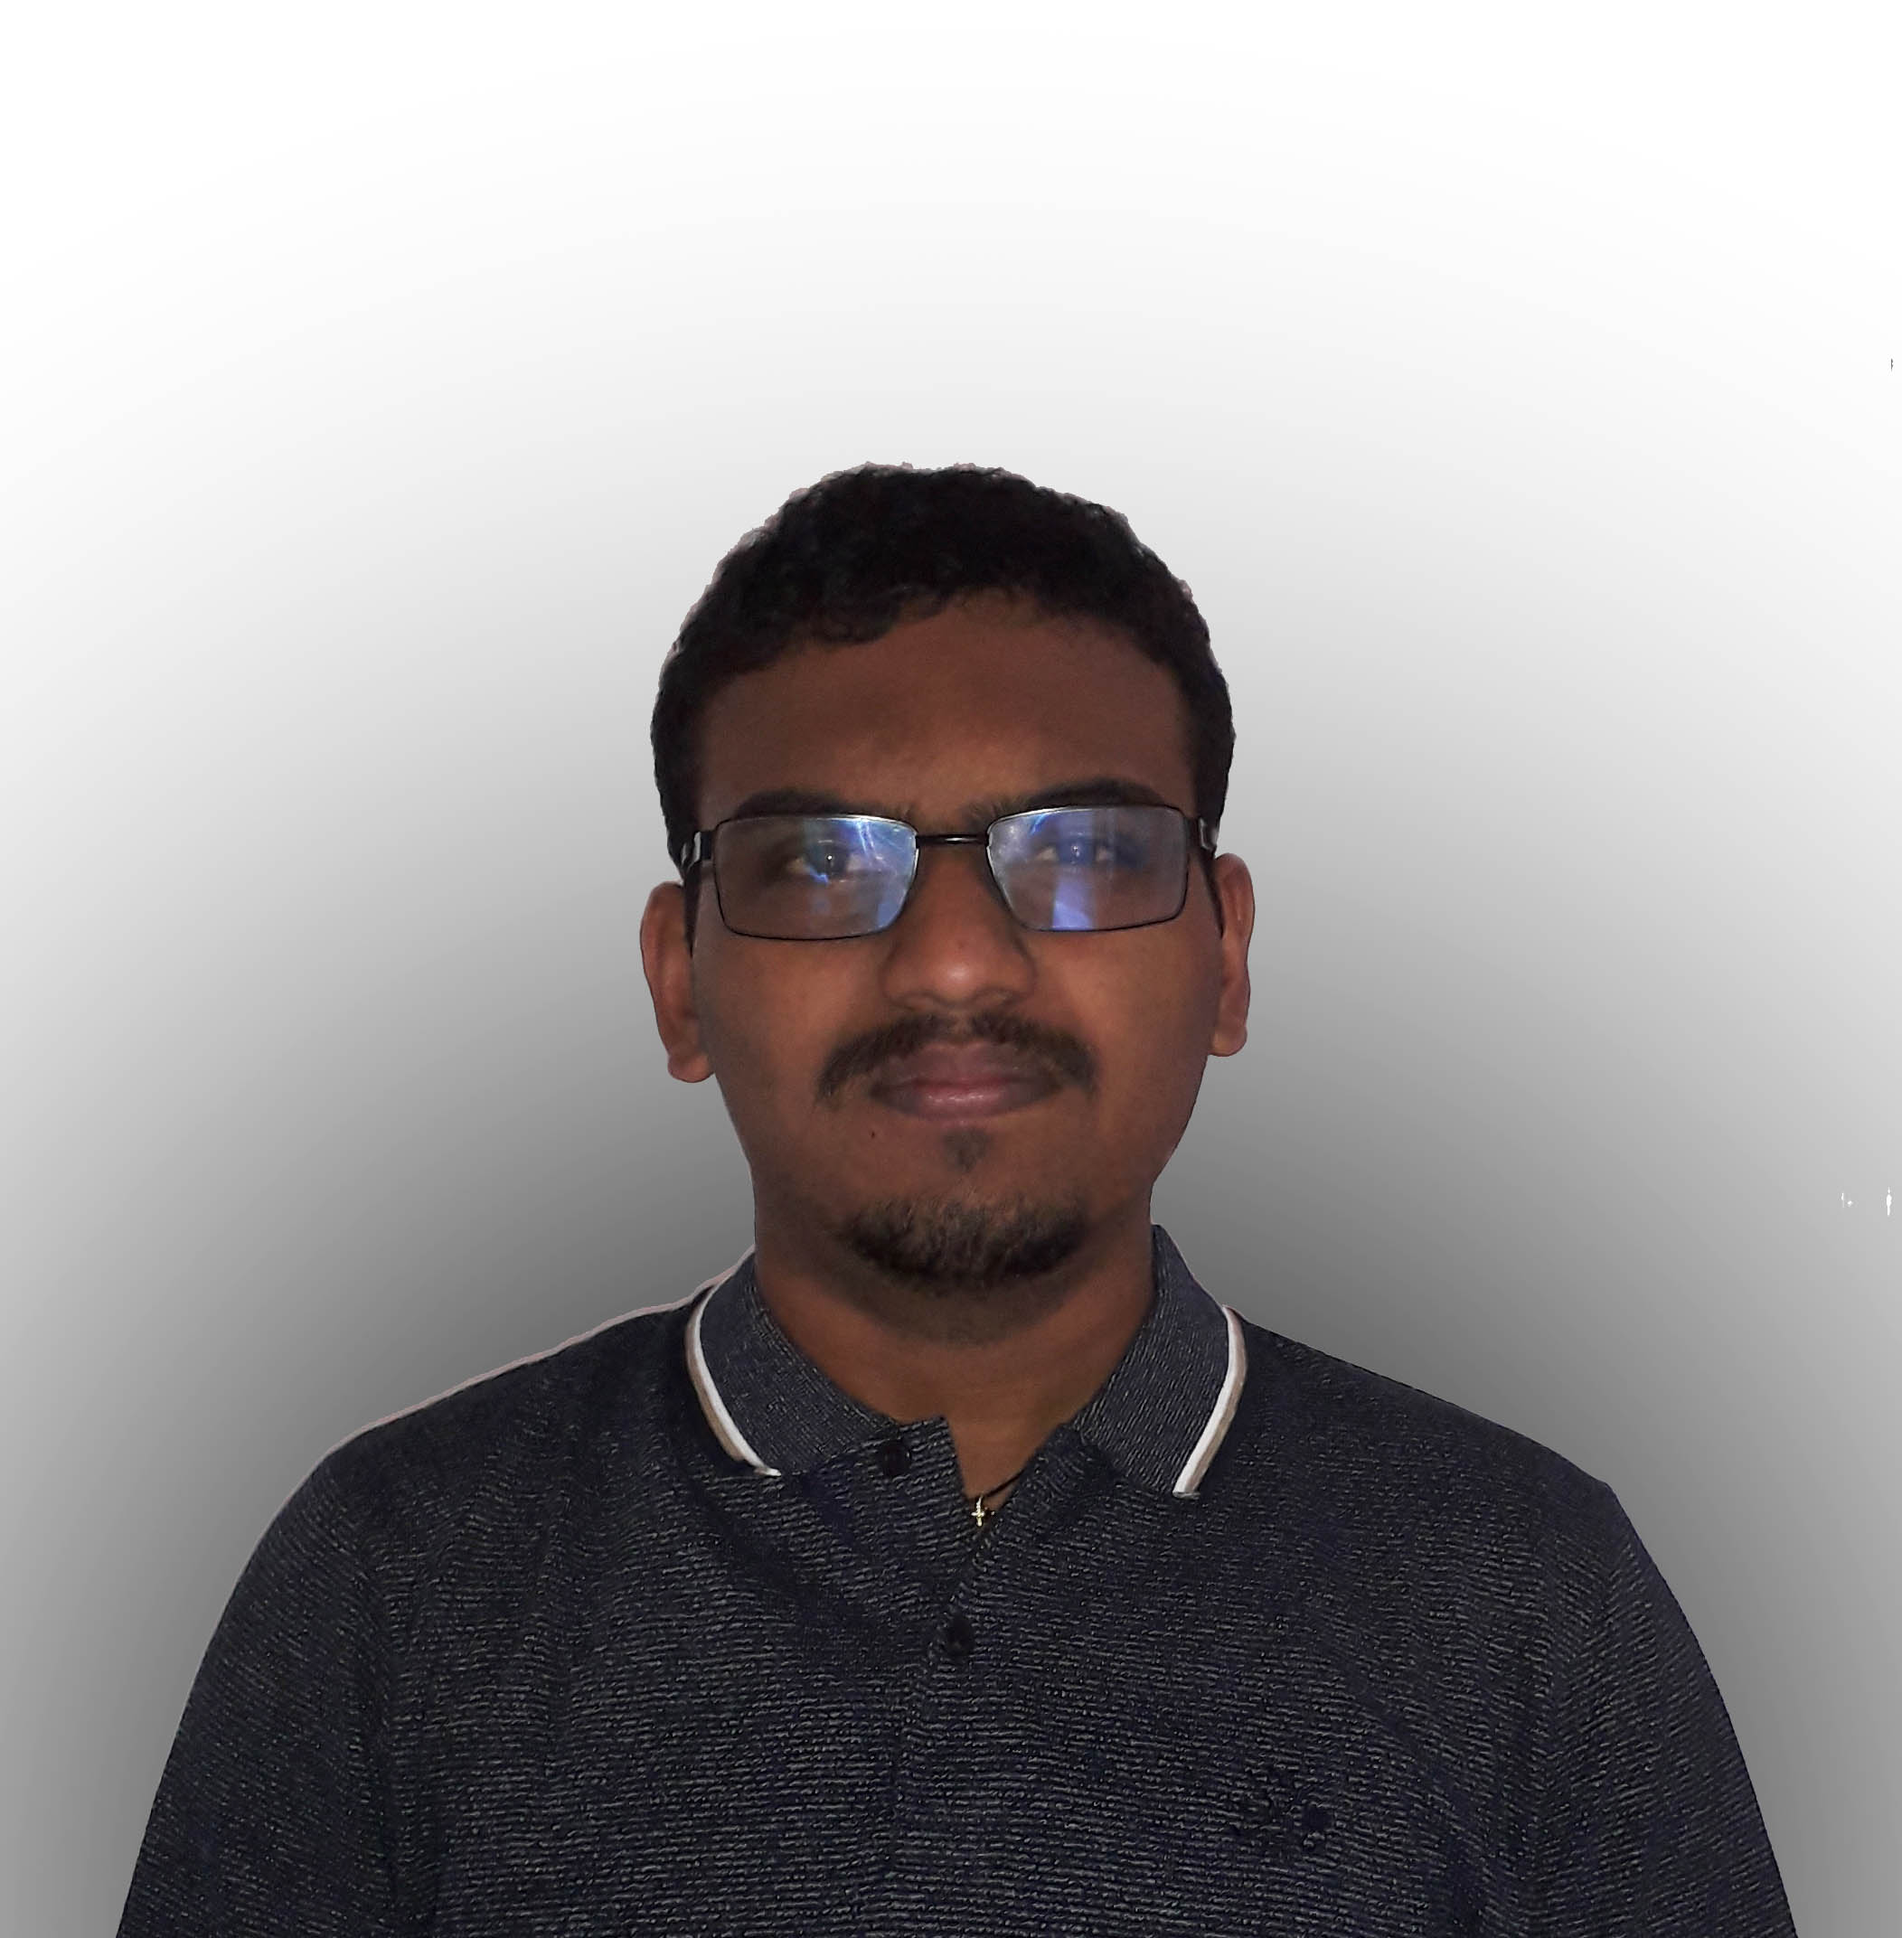
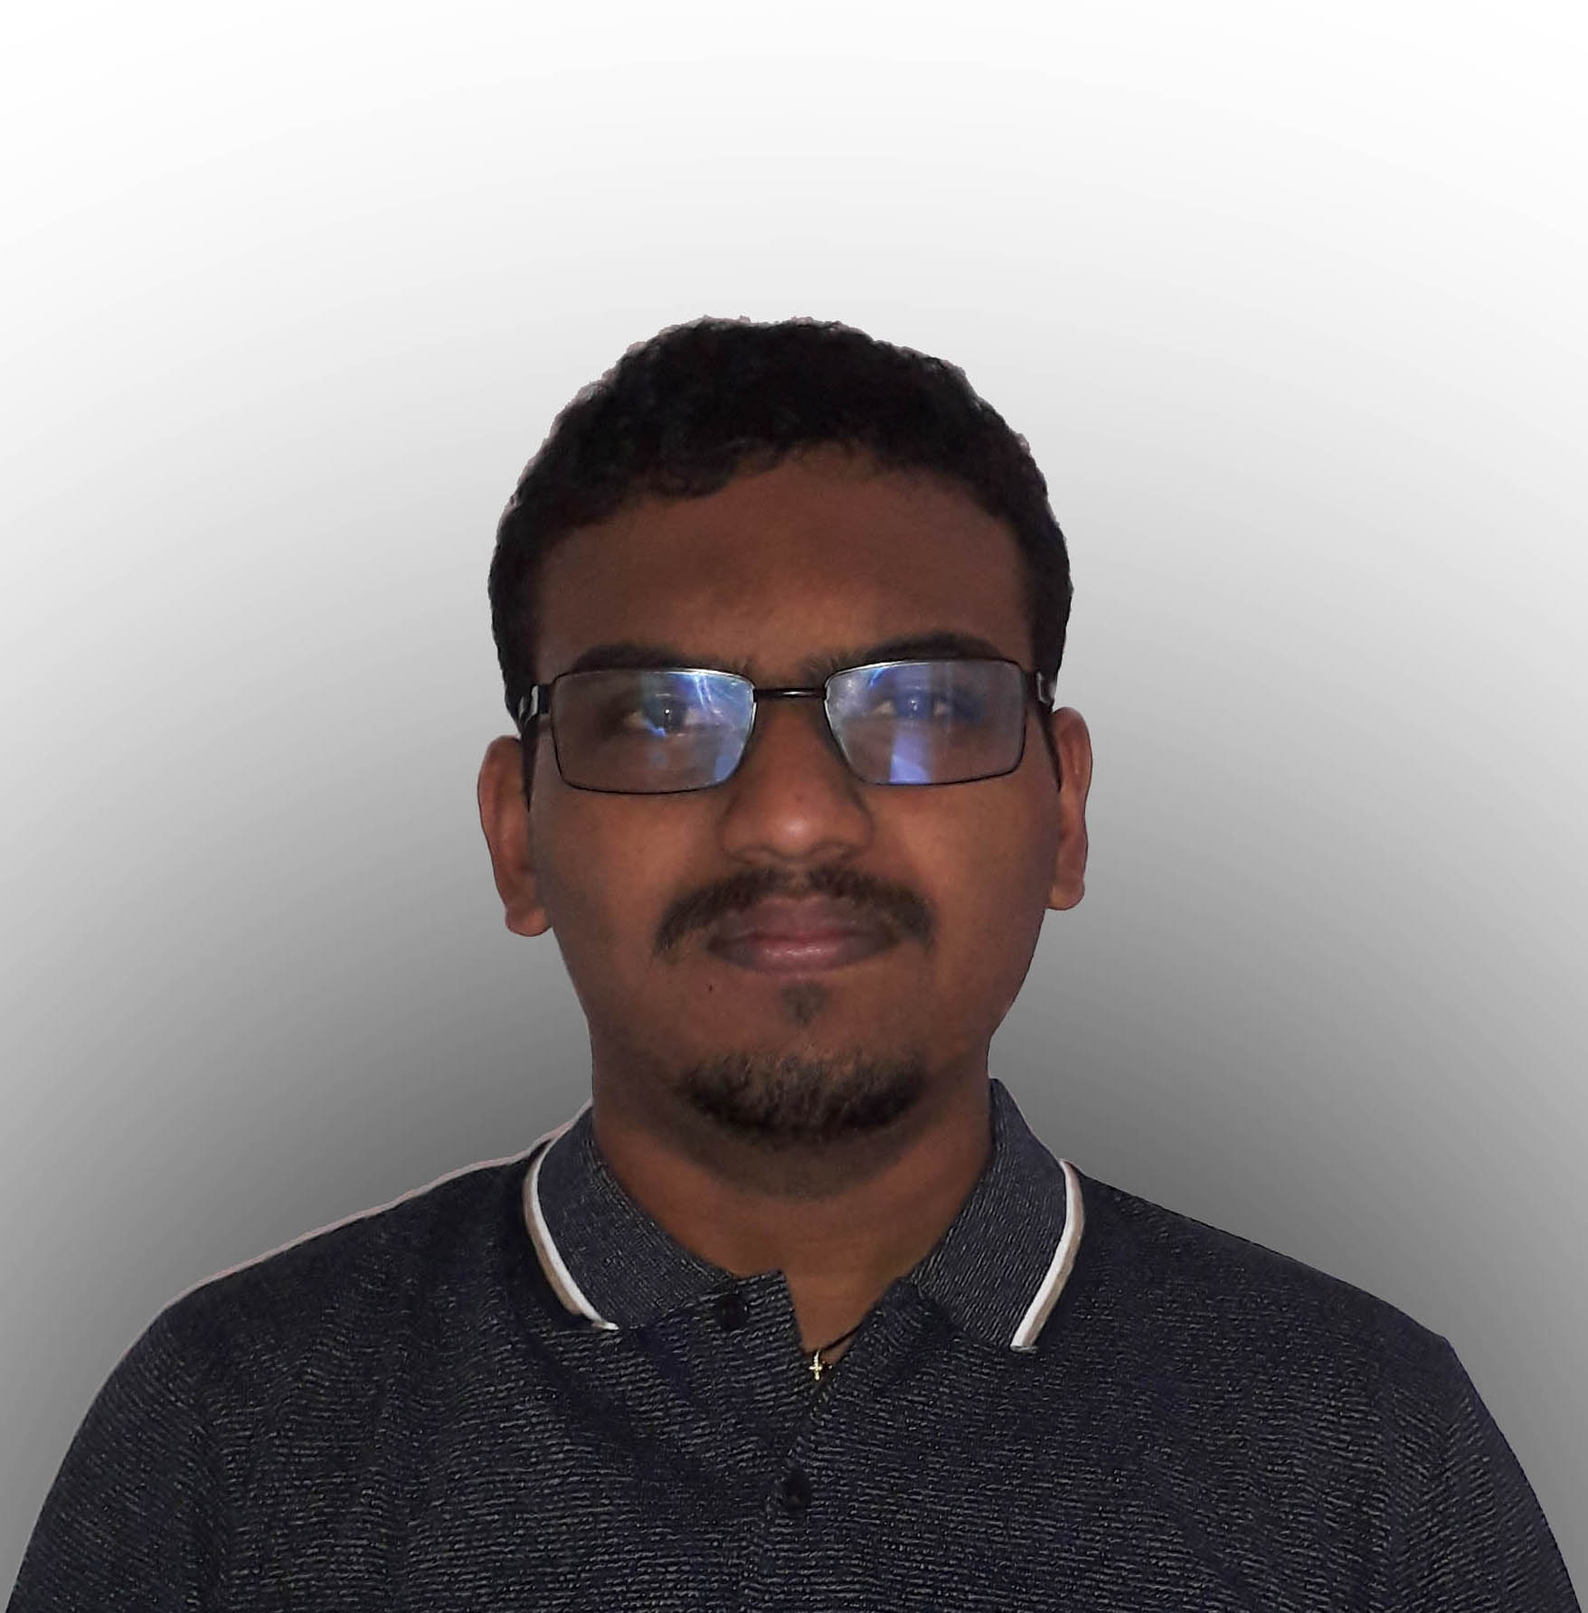
updated gallery
new pics

Changed region(s): [[0.0, 0.185, 1.0, 1.0]]

diff --git a/Final Project/Places/unawatuna.html b/Final Project/Places/unawatuna.html
@@ -38,7 +38,7 @@
         .grid-container > div {
             text-align: center;
             padding: 20px 0;
-            font-size: 30px;
+            font-size: 2em;
         }
 
         p {
@@ -48,15 +48,16 @@
             font-size: 0.7em;
             text-align: center;
             width: 300px;
-            left: 36%;
+            left: 37%;
         }
 
         article {
             position: relative;
             bottom: -480px;
             background-color: aquamarine;
-            padding: 15px;
-            font-size: 24px;
+            padding: 13px;
+            font-size: 0.8em;
+            font-family: Brush Script MT, Brush Script Std, cursive;
         }
 
 
@@ -146,6 +147,7 @@
         <article>Surfing</article>
     </div>
     <div class="item2">
+        <br>
         <h2>Unawatuna</h2>
         <hr>
         <br>

diff --git a/Final Project/index.html b/Final Project/index.html
@@ -166,13 +166,15 @@
             slides[slideIndex - 1].style.display = "block";
             dots[slideIndex - 1].className += " active";
         }
-    </script>
+        
+    </script><br><br>
 </section>
 
 <section id="gallery" class="gallery">
+    
     <!-- The six images floating next to each other -->
     <div class="img_bar">
-        <h1>Top 6 Cities to Visit</h1>
+        <h1 style="font-family: Brush Script MT, Brush Script Std, cursive; font-size: 2em">&nbsp;Top 6 Cities to Visit</h1>
         <br>
         <div class="row">
             <div class="column"><!-- Image 1 -->

diff --git a/Final Project/static/css/slider.css b/Final Project/static/css/slider.css
@@ -31,9 +31,9 @@
   font-size:3em;
   padding: 8px 12px;
   position: absolute;
-  bottom: 30%;
+  bottom: 40%;
  ;
-    font-family: cursive;
+    font-family:Brush Script MT, Brush Script Std, cursive;
   left:5%;
 }
 

diff --git a/Final Project/static/css/CVs/kevin.css b/Final Project/static/css/CVs/kevin.css
@@ -1,4 +1,6 @@
-body,object,h1,h2,p,block,em,img,ul,article,section {
+/*Kevin CV CSS*/
+
+body,h1,h2,p,block,img,ul,article,section {
 border:0;
 font:inherit;
 font-size:100%;

diff --git a/Final Project/static/css/gallery.css b/Final Project/static/css/gallery.css
@@ -1,3 +1,4 @@
+/*Gallery section CSS*/
 * {
     box-sizing: border-box;
 }
